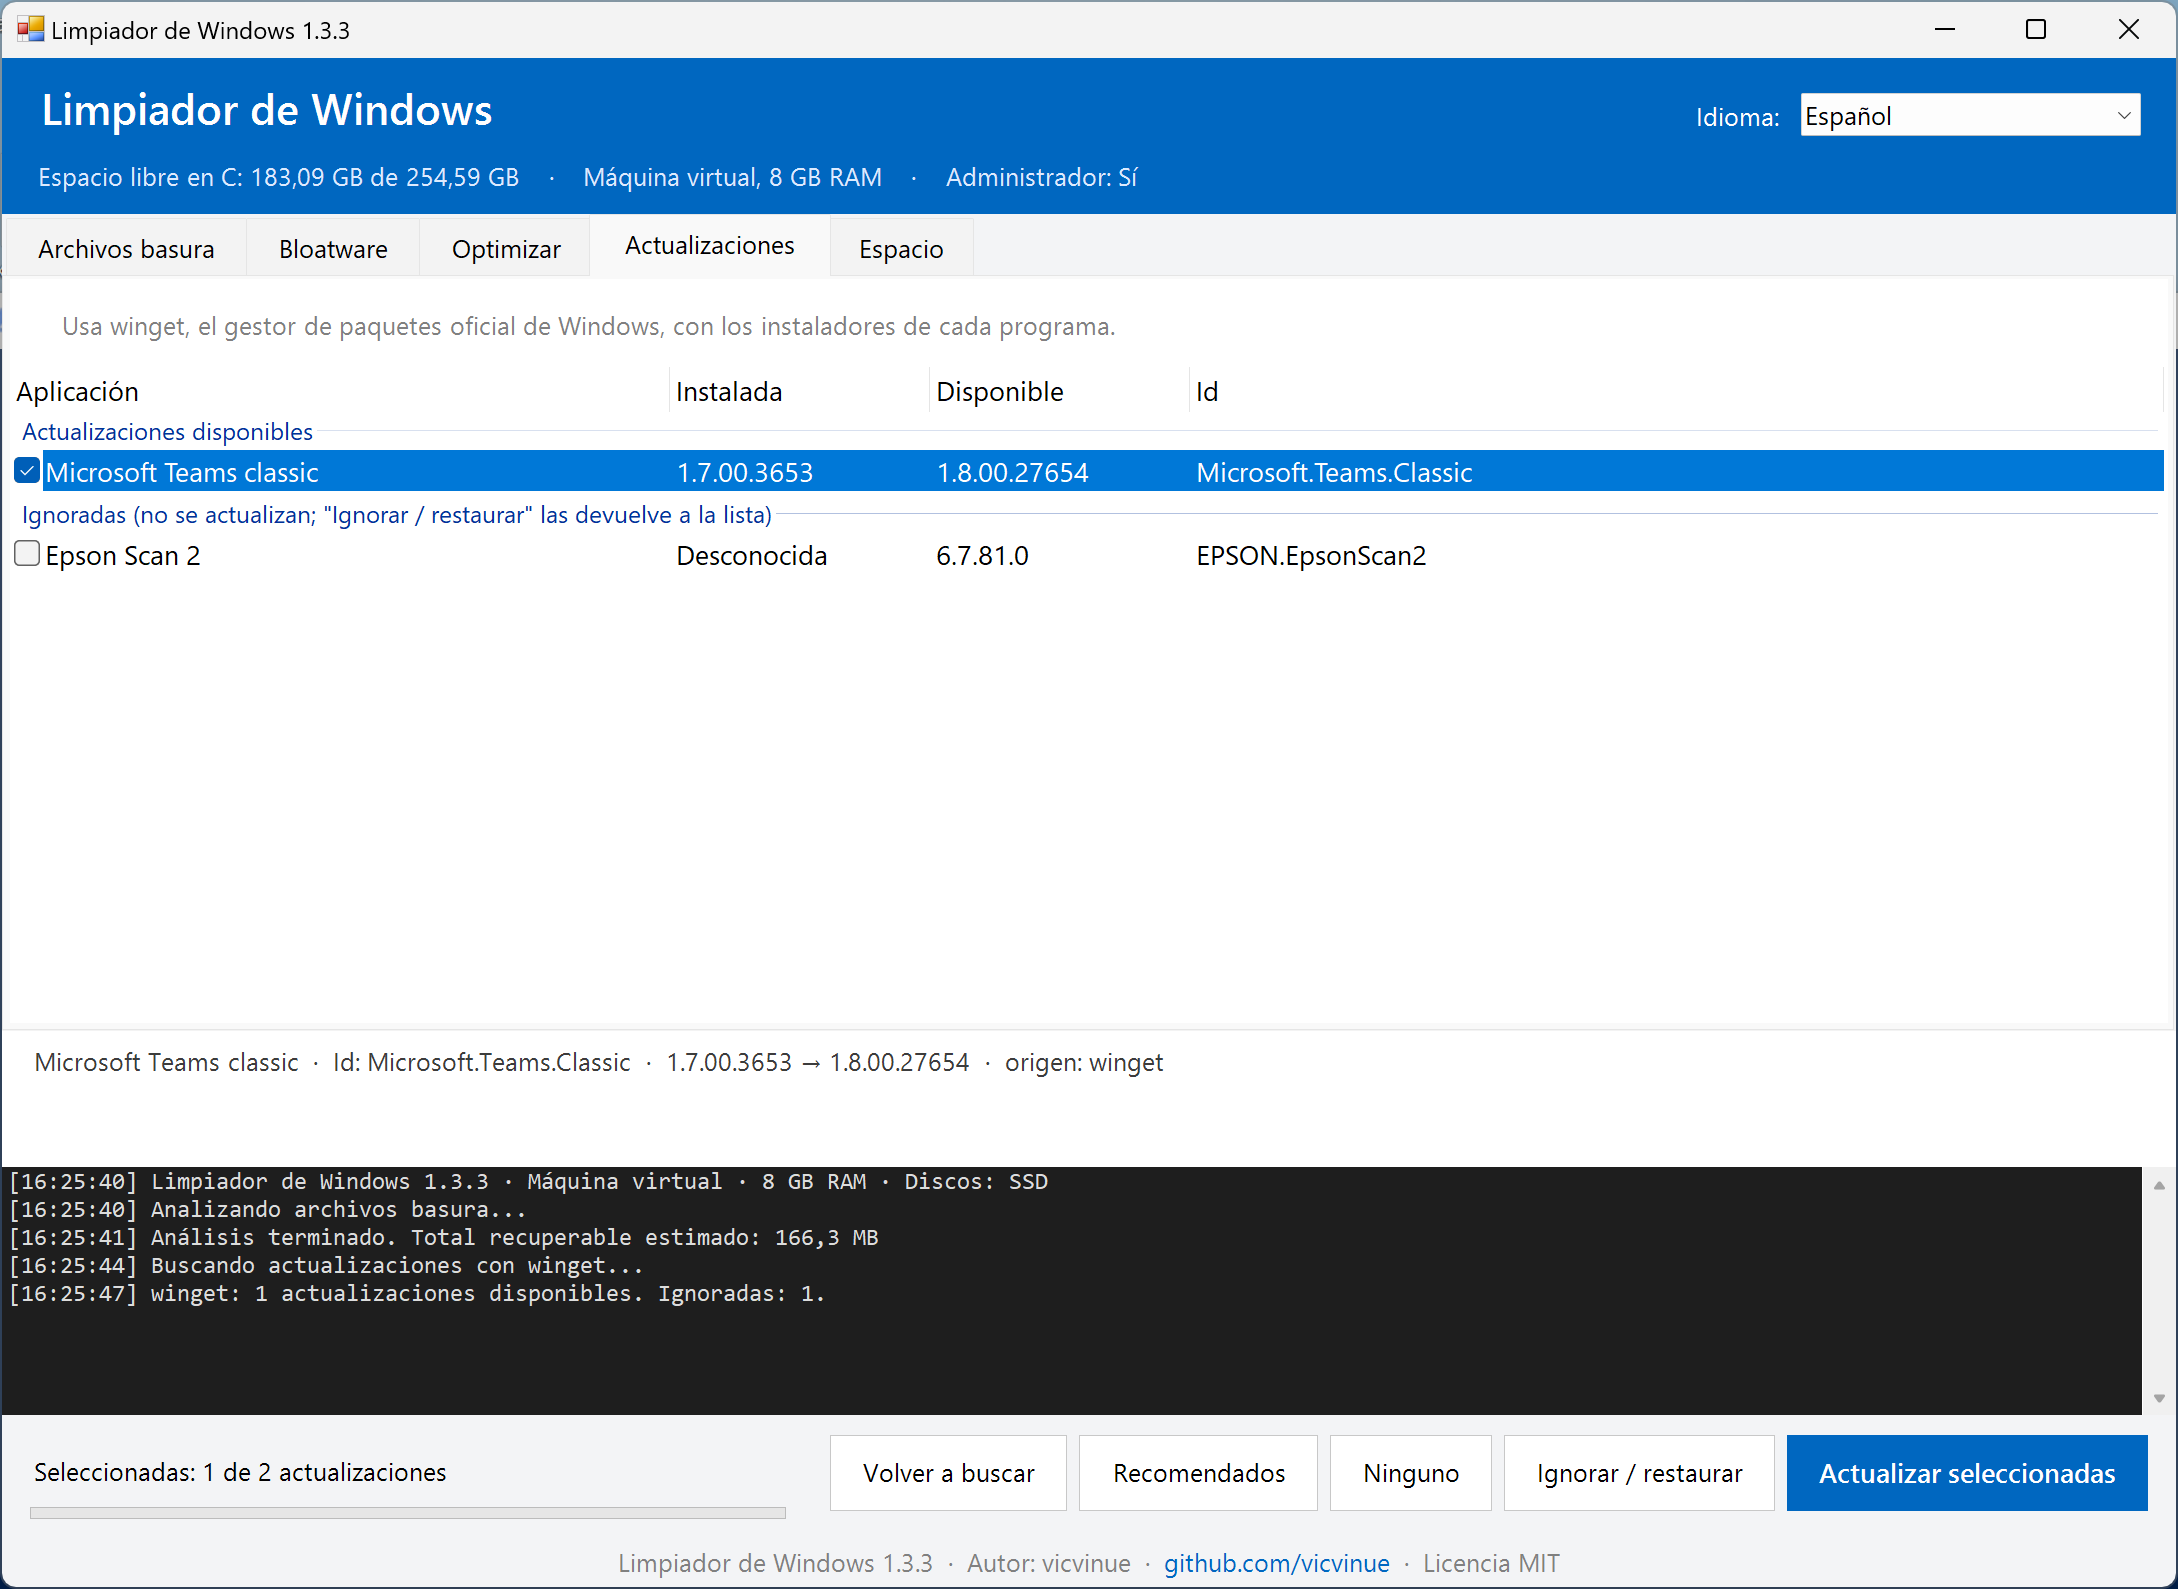
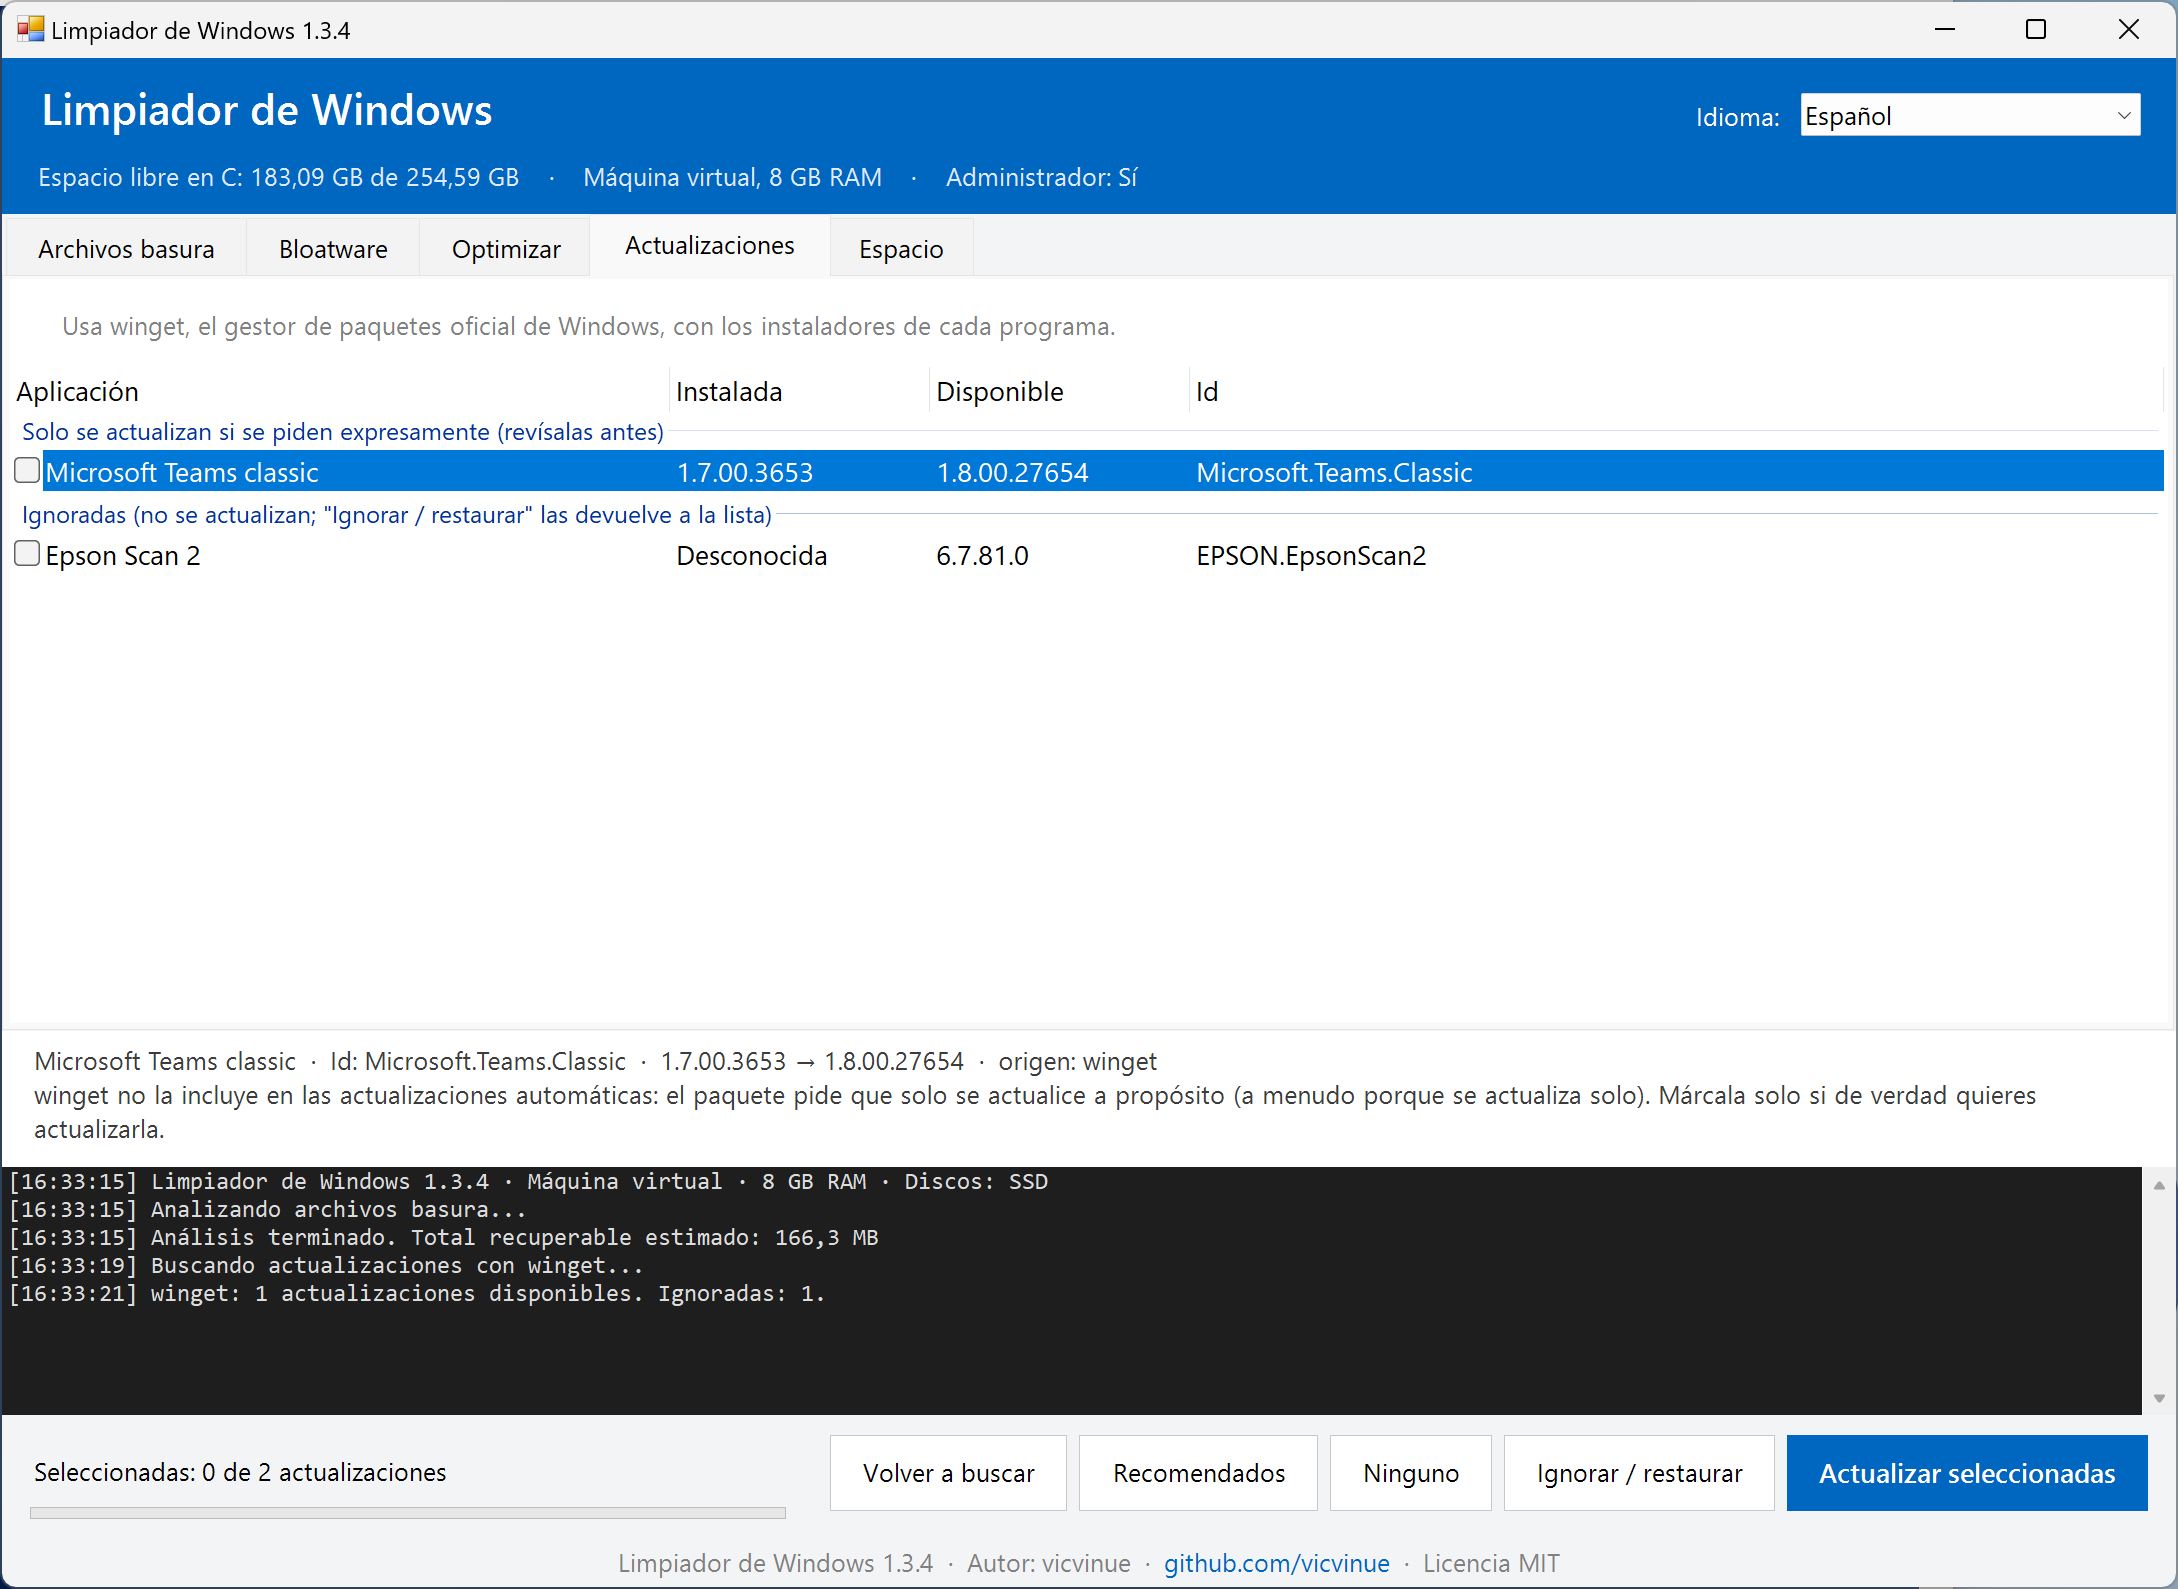
Versión 1.3.4
- Actualizaciones: los paquetes que winget solo actualiza si se piden expresamente ("requieren un destino explícito") van en su propio grupo y sin marcar. Antes, si no había otras actualizaciones, aparecían como normales y marcados (p. ej. Microsoft Teams classic).
- Capturas del README actualizadas a la v1.3.4.

Changed region(s): [[0.0, 0.6476, 0.9366, 0.8326], [0.9679, 0.185, 1.0, 1.0], [0.0, 0.2467, 0.3122, 0.3084]]

diff --git a/README.md b/README.md
@@ -53,6 +53,7 @@ Lista las aplicaciones instaladas que tienen una versión nueva, usando **winget
 - Muestra la versión instalada, la disponible y el origen (`winget` o `msstore`). Puedes elegir qué actualizar.
 - El progreso y la salida de cada instalador aparecen en la consola de la parte inferior.
 - Las apps cuya versión instalada no se puede saber van en un grupo aparte y **no vienen marcadas**.
+- Las que winget solo actualiza si se piden expresamente (por ejemplo, porque se actualizan solas) también van aparte y **sin marcar**.
 - *Cancelar* detiene el proceso al terminar la app en curso: nunca interrumpe un instalador a medias.
 - **Ignorar / restaurar**: oculta las apps que no quieres actualizar o que winget ofrece siempre aunque ya estén al día. Pasa con programas cuyo instalador no indica su versión, como Epson Scan 2. Usa `winget pin` y se deshace con el mismo botón; las ignoradas aparecen en su propio grupo.
 - Si winget no está instalado, la pestaña lo indica. Se instala con *Instalador de aplicación* (App Installer) desde Microsoft Store.
